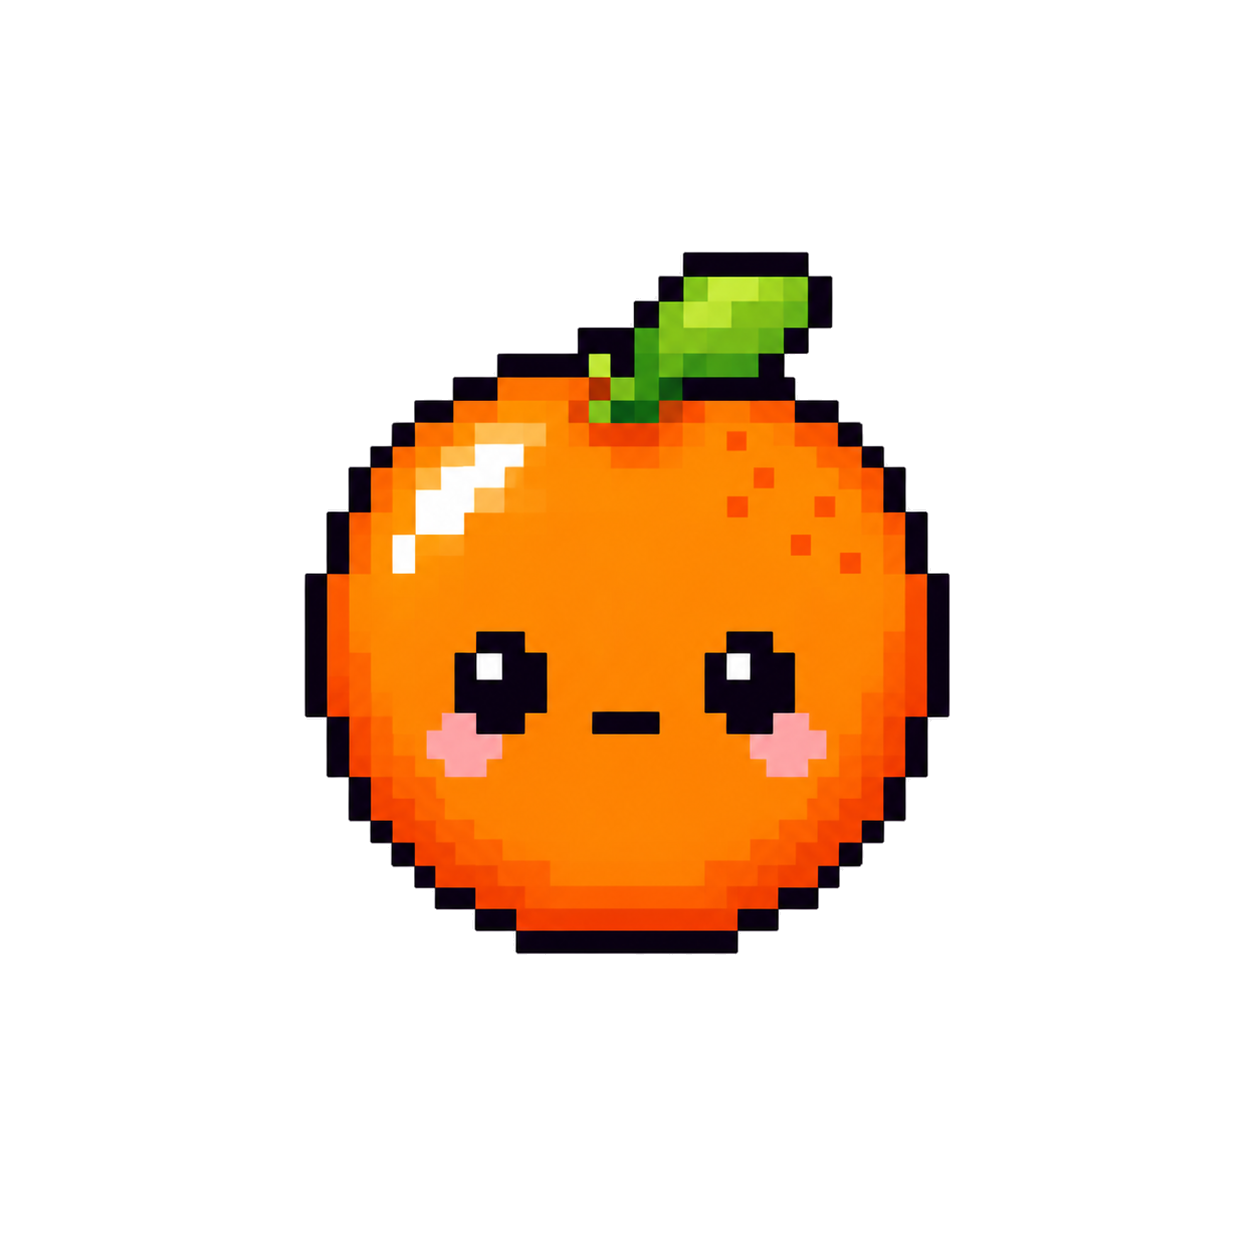
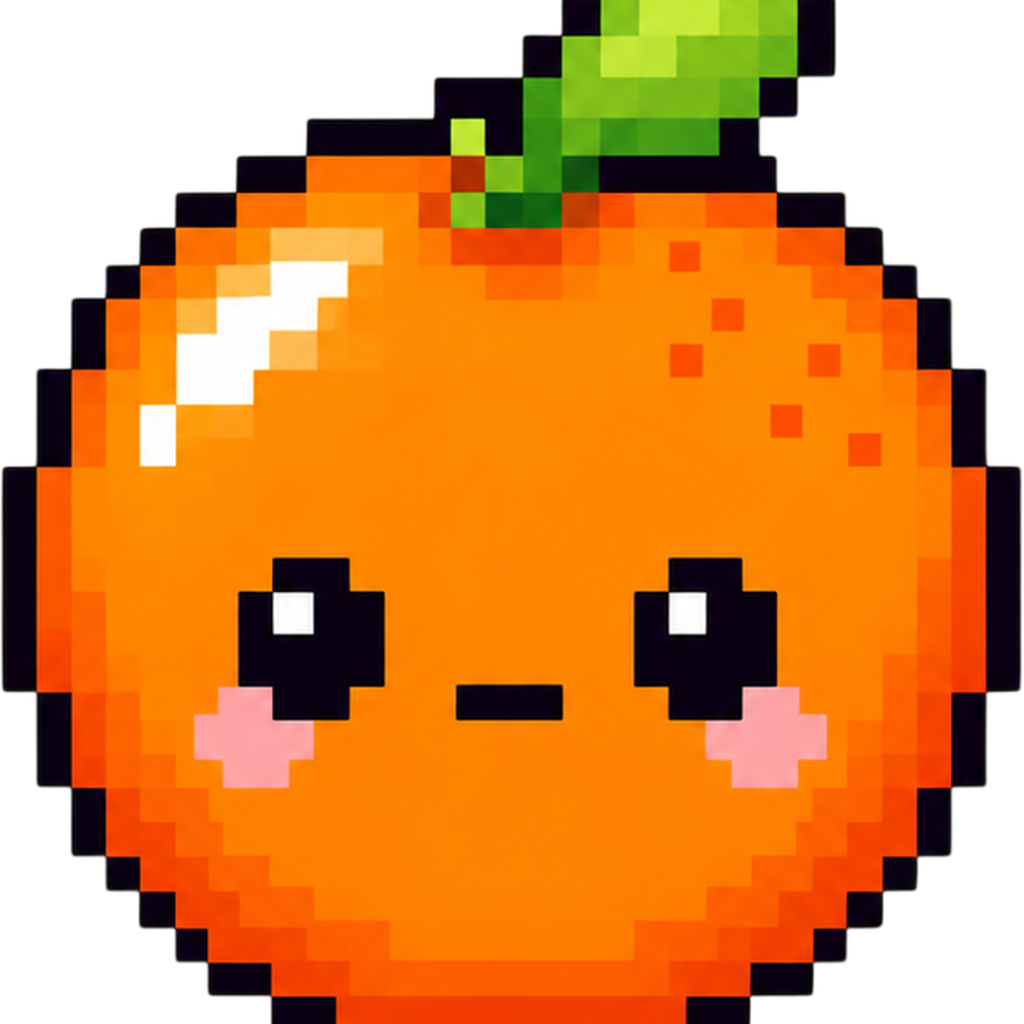
feat: 과일 에셋 교체 및 게임플레이 개선
- 새 Photoroom 에셋으로 전체 과일 이미지 교체 (투명 여백 제거, 1024x1024 정규화)
- 과일 크기 135% 확대 (FRUIT_CONFIG radius 전체 조정)
- 과일 드래그 버그 수정 (MouseConstraint collisionFilter mask: 0x0000)
- 태블릿/모바일 반응형 레이아웃 대응 (3단계 브레이크포인트)
- 모바일 캔버스 80% 너비, 몬스터볼 버튼 패딩 축소

diff --git a/js/game.js b/js/game.js
@@ -5,17 +5,17 @@ const {
 
 // ─── 이미지 교체 시 이 배열만 수정하면 됩니다 ───────────────────────────
 const FRUIT_CONFIG = [
-  { radius: 24,  scoreValue: 1,  img: './assets/img/circle0.png'  }, // 0: 체리
-  { radius: 32,  scoreValue: 3,  img: './assets/img/circle1.png'  }, // 1: 딸기
-  { radius: 40,  scoreValue: 6,  img: './assets/img/circle2.png'  }, // 2: 포도
-  { radius: 56,  scoreValue: 10, img: './assets/img/circle3.png'  }, // 3: 레몬
-  { radius: 64,  scoreValue: 15, img: './assets/img/circle4.png'  }, // 4: 귤
-  { radius: 72,  scoreValue: 21, img: './assets/img/circle5.png'  }, // 5: 사과
-  { radius: 84,  scoreValue: 28, img: './assets/img/circle6.png'  }, // 6: 배
-  { radius: 96,  scoreValue: 36, img: './assets/img/circle7.png'  }, // 7: 복숭아
-  { radius: 128, scoreValue: 45, img: './assets/img/circle8.png'  }, // 8: 파인애플
-  { radius: 160, scoreValue: 55, img: './assets/img/circle9.png'  }, // 9: 멜론
-  { radius: 192, scoreValue: 66, img: './assets/img/circle10.png' }, // 10: 수박
+  { radius: 32,  scoreValue: 1,  img: './assets/img/circle0.png'  }, // 0: 체리
+  { radius: 43,  scoreValue: 3,  img: './assets/img/circle1.png'  }, // 1: 딸기
+  { radius: 54,  scoreValue: 6,  img: './assets/img/circle2.png'  }, // 2: 포도
+  { radius: 76,  scoreValue: 10, img: './assets/img/circle3.png'  }, // 3: 레몬
+  { radius: 86,  scoreValue: 15, img: './assets/img/circle4.png'  }, // 4: 귤
+  { radius: 97,  scoreValue: 21, img: './assets/img/circle5.png'  }, // 5: 사과
+  { radius: 113, scoreValue: 28, img: './assets/img/circle6.png'  }, // 6: 배
+  { radius: 130, scoreValue: 36, img: './assets/img/circle7.png'  }, // 7: 복숭아
+  { radius: 173, scoreValue: 45, img: './assets/img/circle8.png'  }, // 8: 파인애플
+  { radius: 216, scoreValue: 55, img: './assets/img/circle9.png'  }, // 9: 멜론
+  { radius: 259, scoreValue: 66, img: './assets/img/circle10.png' }, // 10: 수박
 ];
 // ─────────────────────────────────────────────────────────────────────────────
 
@@ -79,6 +79,7 @@ const mouse           = Mouse.create(render.canvas);
 const mouseConstraint = MouseConstraint.create(engine, {
   mouse,
   constraint: { stiffness: 0.2, render: { visible: false } },
+  collisionFilter: { mask: 0x0000 }, // 바디 드래그 차단
 });
 render.mouse = mouse;
 Composite.add(engine.world, mouseConstraint);
@@ -398,14 +399,24 @@ function initMenu() {
 
 // ─── 반응형 리사이즈 ─────────────────────────────────────────────────────────
 function resizeCanvas() {
-  const SIDE_W = 260 + 28; // 컬럼 너비 + gap
   const sw = document.body.clientWidth;
-  const sh = document.body.clientHeight - 64;
-  const availW = Math.max(sw - SIDE_W * 2 - 48, 200); // 좌우 패딩 48px
-  let w, h, scale;
+  const sh = document.body.clientHeight;
 
-  if (availW * 1.5 > sh) {
-    h     = Math.min(960, sh);
+  const isMobile = sw < 700;
+  const isTablet = sw >= 700 && sw < 1100;
+
+  const sideW = isMobile ? 0 : isTablet ? 180 : 260;
+  const gap   = isMobile ? 0 : isTablet ?  32 : 150;
+  const padV  = isMobile ? 140 : 64; // 모바일은 상하 패널 공간
+
+  const availW = isMobile
+    ? Math.max(sw * 0.80, 200)
+    : Math.max(sw - (sideW + gap) * 2 - 48, 200);
+  const availH = sh - padV;
+
+  let w, h, scale;
+  if (availW * 1.5 > availH) {
+    h     = Math.min(960, availH);
     w     = h / 1.5;
     scale = h / 960;
   } else {
@@ -420,7 +431,8 @@ function resizeCanvas() {
   el.ui.style.height         = '960px';
   el.ui.style.transform      = `scale(${scale})`;
 
-  document.getElementById('side-right').style.height = `${h - 128}px`;
+  const sideRight = document.getElementById('side-right');
+  sideRight.style.height = isMobile ? 'auto' : `${h - (isTablet ? 64 : 128)}px`;
 }
 
 window.addEventListener('load',   resizeCanvas);

diff --git a/index.html b/index.html
@@ -73,7 +73,7 @@
         0 0 0 8px rgba(255,255,228,0.2);   /* 외곽 희미한 글로우 */
     }
 
-    canvas { display: block; image-rendering: pixelated; }
+    canvas { display: block; image-rendering: pixelated; touch-action: none; }
 
     /* ── HUD ── */
     #game-ui {
@@ -297,6 +297,71 @@
     @keyframes intro-orbit {
       from { transform: rotate(0deg); }
       to   { transform: rotate(360deg); }
+    }
+
+    /* ── 태블릿 (700 ~ 1100px) ── */
+    @media (max-width: 1100px) {
+      .container {
+        gap: 32px;
+        padding: 24px 16px;
+      }
+      #side-left, #side-right {
+        width: 180px;
+        margin-top: 32px;
+      }
+      #game-score { font-size: 36px; }
+      #game-next-fruit { width: 90px; height: 90px; }
+      #evolution-ring  { width: 240px; height: 240px; }
+    }
+
+    /* ── 모바일 (< 700px) ── */
+    @media (max-width: 699px) {
+      body { overflow: auto; }
+
+      .container {
+        flex-direction: column;
+        align-items: center;
+        gap: 10px;
+        padding: 12px;
+        height: auto;
+        min-height: 100vh;
+      }
+
+      #side-left, #side-right {
+        width: 100%;
+        max-width: 480px;
+        flex-direction: row;
+        margin-top: 0;
+        height: auto !important;
+        gap: 0;
+      }
+
+      .retro-box {
+        flex-direction: row;
+        align-items: center;
+        justify-content: center;
+        padding: 10px 16px;
+        gap: 10px;
+        width: 100%;
+        flex-wrap: wrap;
+      }
+
+      .box-divider {
+        width: 2px;
+        height: 32px;
+        border: none;
+        border-left: 2px solid rgba(255, 255, 228, 0.15);
+        margin: 0 4px;
+      }
+
+      #game-score     { font-size: 28px; }
+      .box-best       { font-size: 12px; }
+      #game-next-fruit { width: 52px; height: 52px; }
+
+      #evolution-wrap  { display: none; }
+
+      #pokeball-btn { bottom: 14px; right: 14px; padding: 6px; }
+      #pokeball-btn img { width: 48px; height: 48px; }
     }
 
     /* ── 포켓몬 레이어 ── */
